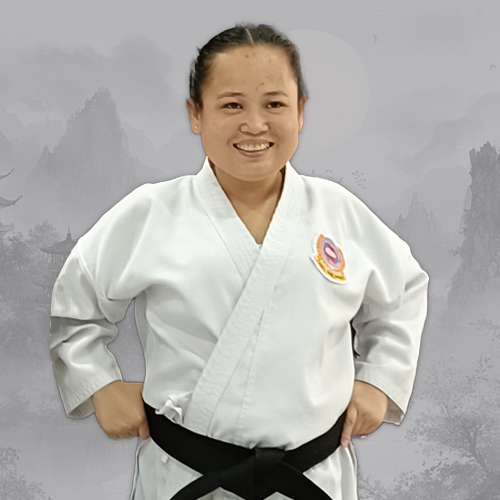
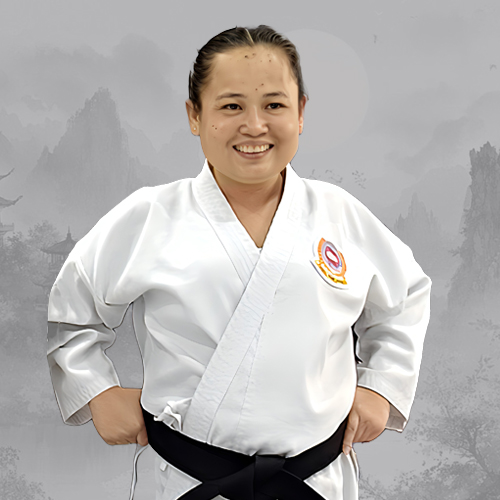
fix img resolution

diff --git a/src/app/components/teams/teams.component.html b/src/app/components/teams/teams.component.html
@@ -41,7 +41,7 @@
             <div class="row g-4 mb-4 center-div">
                 <div class="col-lg-3 col-md-6 wow fadeInUp" data-wow-delay="0.1s">
                     <div class="team-item rounded">
-                        <img class="img-fluid" src="assets/img/manuel-aloba.jpg" alt="">
+                        <img class="img-fluid" src="assets/img/manuel-aloba.jpg" alt="Manuel Aloba Sr.">
                         <div class="text-center p-4">
                             <h5 class="text-red">Manuel Aloba Sr.</h5>
                         </div>
@@ -53,7 +53,7 @@
                 </div>
                 <div class="col-lg-3 col-md-6 wow fadeInUp" data-wow-delay="0.3s">
                     <div class="team-item rounded">
-                        <img class="img-fluid" src="assets/img/lucky-love-aloba.jpg" alt="">
+                        <img class="img-fluid" src="assets/img/lucky-love-aloba.jpg" alt="Lucky Love Aloba">
                         <div class="text-center p-4">
                             <h5 class="text-red">Lucky Love Aloba</h5>
                         </div>
@@ -65,10 +65,10 @@
                 </div>
             </div>
             <!-- end -->
-            <div class="row g-4">
+            <div class="row g-4 mb-4">
                 <div class="col-lg-3 col-md-6 wow fadeInUp" data-wow-delay="0.1s">
                     <div class="team-item rounded">
-                        <img class="img-fluid" src="assets/img/joy-japus.jpg" alt="">
+                        <img class="img-fluid" src="assets/img/joy-japus.jpg" alt="Joy Japus">
                         <div class="text-center p-4">
                             <h5 class="text-red">Joy Japus</h5>
                         </div>
@@ -80,7 +80,7 @@
                 </div>
                 <div class="col-lg-3 col-md-6 wow fadeInUp" data-wow-delay="0.3s">
                     <div class="team-item rounded">
-                        <img class="img-fluid" src="assets/img/julie-ann-medillo.jpg" alt="">
+                        <img class="img-fluid" src="assets/img/julie-ann-medillo.jpg" alt="Julie-Ann Medillo">
                         <div class="text-center p-4">
                             <h5 class="text-red">Julie-Ann Medillo</h5>
                         </div>
@@ -92,19 +92,19 @@
                 </div>
                 <div class="col-lg-3 col-md-6 wow fadeInUp" data-wow-delay="0.7s">
                     <div class="team-item rounded">
-                        <img class="img-fluid" src="assets/img/morats.jpg" alt="">
+                        <img class="img-fluid" src="assets/img/junie-morato.jpg" alt="Junie Morato">
                         <div class="text-center p-4">
-                            <h5 class="text-red">Full Name</h5>
+                            <h5 class="text-red">Junie Morato</h5>
                         </div>
                         <div class="team-text text-center bg-white p-4">
-                            <h5>Full Name</h5>
+                            <h5>Junie Morato</h5>
                             <p class="fw-semibold text-red">Instructor</p>
                         </div>
                     </div>
                 </div>
                 <div class="col-lg-3 col-md-6 wow fadeInUp" data-wow-delay="0.7s">
                     <div class="team-item rounded">
-                        <img class="img-fluid" src="assets/img/alenito-benitez.jpg" alt="">
+                        <img class="img-fluid" src="assets/img/alenito-benitez.jpg" alt="Alenito Benitez">
                         <div class="text-center p-4">
                             <h5 class="text-red">Alenito Benitez</h5>
                         </div>
@@ -114,9 +114,24 @@
                         </div>
                     </div>
                 </div>
+                <!-- <div class="col-lg-3 col-md-6 wow fadeInUp" data-wow-delay="0.7s">
+                    <div class="team-item rounded">
+                        <img class="img-fluid" src="https://demo.htmlcodex.com/2539/insurance-html-template/img/team-1.jpg" alt="">
+                        <div class="text-center p-4">
+                            <h5 class="text-red">Full Name</h5>
+                        </div>
+                        <div class="team-text text-center bg-white p-4">
+                            <h5>Full Name</h5>
+                            <p class="fw-semibold text-red">Designation</p>
+                        </div>
+                    </div>
+                </div> -->
+            </div>
+            <!-- end -->
+            <div class="row g-4 center-div">
                 <div class="col-lg-3 col-md-6 wow fadeInUp" data-wow-delay="0.1s">
                     <div class="team-item rounded">
-                        <img class="img-fluid" src="assets/img/phelina-erika-regis.jpg" alt="">
+                        <img class="img-fluid" src="assets/img/phelina-erika-regis.jpg" alt="Phelina Erika Regis">
                         <div class="text-center p-4">
                             <h5 class="text-red">Phelina Erika Regis</h5>
                         </div>
@@ -128,41 +143,30 @@
                 </div>
                 <div class="col-lg-3 col-md-6 wow fadeInUp" data-wow-delay="0.3s">
                     <div class="team-item rounded">
-                        <img class="img-fluid" src="assets/img/alenna-mariz-benitez.jpg" alt="">
+                        <img class="img-fluid" src="assets/img/alenna-mariz-benitez.jpg" alt="Alenna Mariz Benitez">
                         <div class="text-center p-4">
                             <h5 class="text-red">Alenna Mariz Benitez</h5>
                         </div>
                         <div class="team-text text-center bg-white p-4">
                             <h5>Alenna Mariz Benitez</h5>
-                            <p class="fw-semibold text-red">Designation</p>
+                            <p class="fw-semibold text-red">Instructor</p>
                         </div>
                     </div>
                 </div>
                 <div class="col-lg-3 col-md-6 wow fadeInUp" data-wow-delay="0.5s">
                     <div class="team-item rounded">
-                        <img class="img-fluid" src="https://demo.htmlcodex.com/2539/insurance-html-template/img/team-4.jpg" alt="">
+                        <img class="img-fluid" src="assets/img/paula-carmela-pascua.jpg" alt="Paula Carmela Pascua">
                         <div class="text-center p-4">
-                            <h5 class="text-red">Full Name</h5>
+                            <h5 class="text-red">Paula Carmela Pascua</h5>
                         </div>
                         <div class="team-text text-center bg-white p-4">
-                            <h5>Full Name</h5>
-                            <p class="fw-semibold text-red">Designation</p>
-                        </div>
-                    </div>
-                </div>
-                <div class="col-lg-3 col-md-6 wow fadeInUp" data-wow-delay="0.7s">
-                    <div class="team-item rounded">
-                        <img class="img-fluid" src="https://demo.htmlcodex.com/2539/insurance-html-template/img/team-1.jpg" alt="">
-                        <div class="text-center p-4">
-                            <h5 class="text-red">Full Name</h5>
-                        </div>
-                        <div class="team-text text-center bg-white p-4">
-                            <h5>Full Name</h5>
-                            <p class="fw-semibold text-red">Designation</p>
+                            <h5>Paula Carmela Pascua</h5>
+                            <p class="fw-semibold text-red">Instructor</p>
                         </div>
                     </div>
                 </div>
             </div>
+            <!-- end -->
         </div>
     </div>
     <!-- Team End -->

diff --git a/src/app/components/teams/teams.component.css b/src/app/components/teams/teams.component.css
@@ -69,10 +69,10 @@ video {
     object-fit: cover;
 }
 
-.row.g-4.mb-4.center-div {
+.center-div {
     display: flex;
     flex-direction: row;
-    flex-wrap: nowrap;
+    flex-wrap: wrap;
     justify-content: center;
 }
 
@@ -92,7 +92,7 @@ ol.breadcrumb.justify-content-center.justify-content-lg-start.mb-0 li.breadcrumb
 }
 
 @media (max-width: 767.98px) {
-    .row.g-4.mb-4.center-div {
+    .center-div {
         flex-direction: column;
     }
 }
